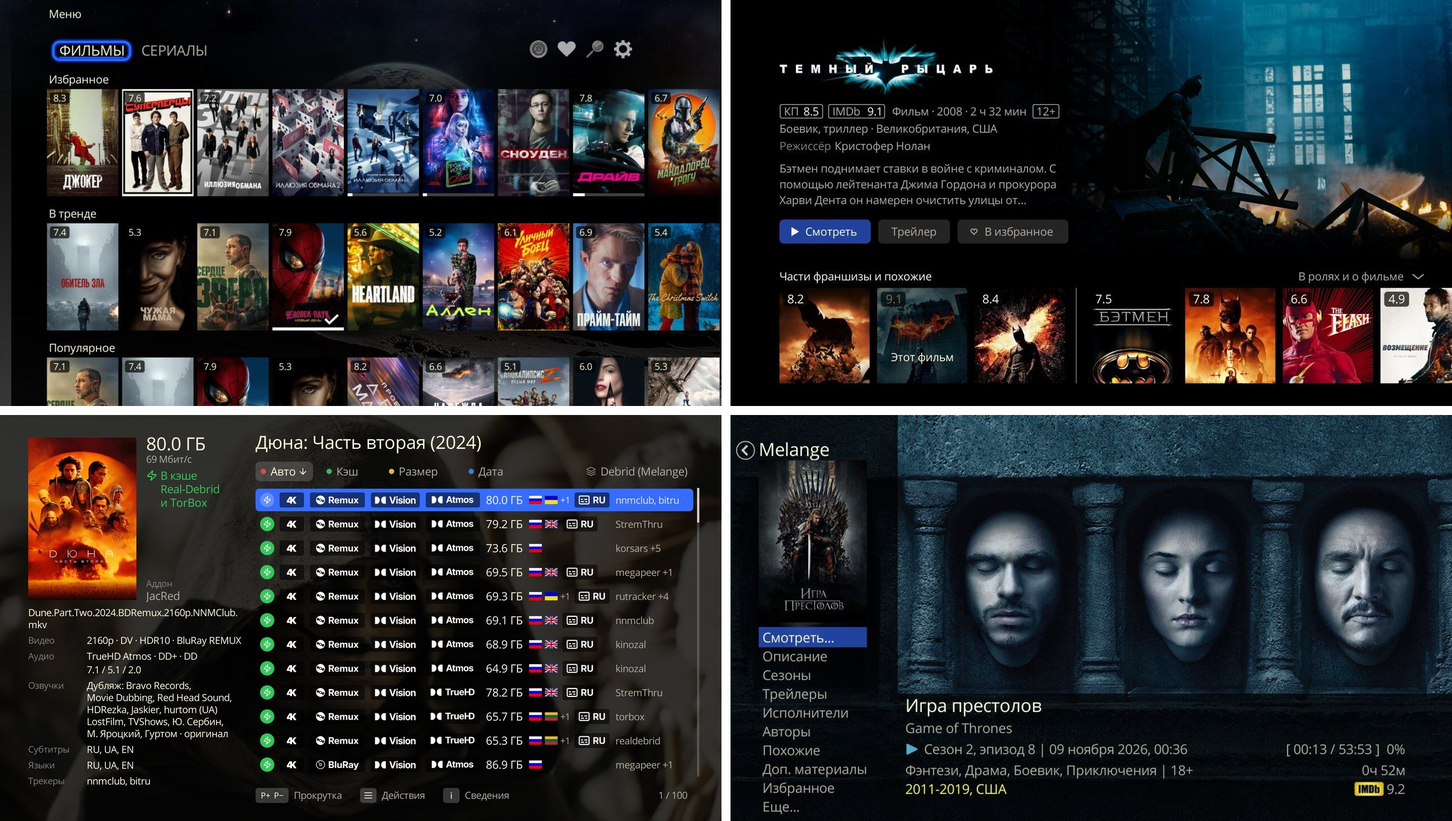
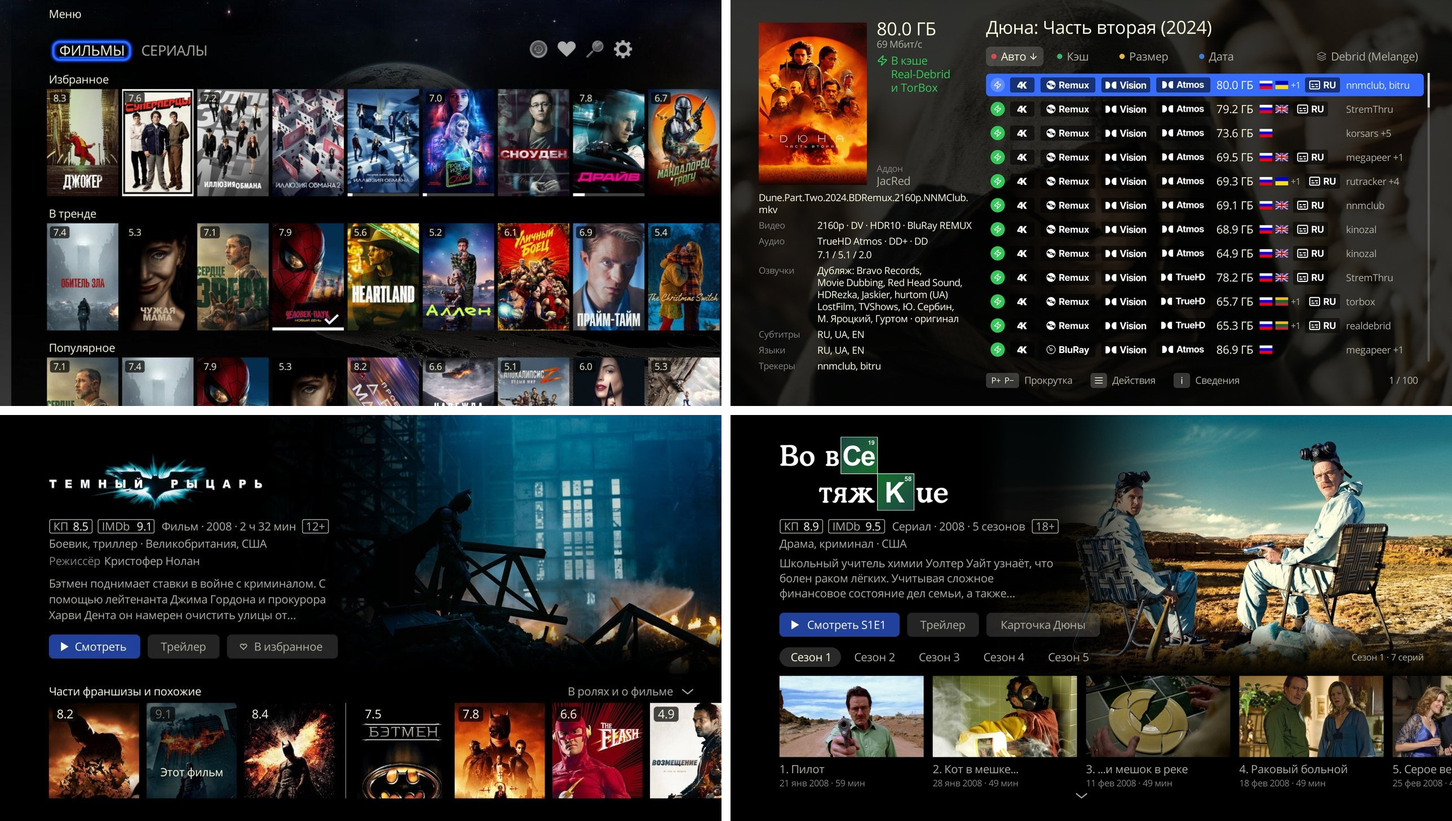
README: short version linking to the guide; overview collage with the own series card

diff --git a/README.md b/README.md
@@ -2,118 +2,27 @@
 
 **Русский** | [English](README.en.md)
 
-Melange превращает Дюну в онлайн-кинотеатр. Подборки фильмов и сериалов, как в стриминговом сервисе: тренды, новинки на цифре, топ Кинопоиска, жанры — и поиск. Выбрали фильм — Melange найдёт раздачи, покажет качество и озвучки, и фильм пойдёт во встроенном плеере Дюны. Сериалы — серия за серией, остановились — продолжите с того же места. Melange встраивается и в каталог «Фильмы» самой Дюны: в карточке фильма или сериала появляется пункт «Melange» в меню «Смотреть…».
+Melange превращает Дюну в онлайн-кинотеатр: каталог фильмов и сериалов с подборками и поиском. Выберите фильм, и Melange найдёт раздачи, покажет качество и озвучки и включит фильм в плеере Дюны. Если остановились, продолжите с того же места. Фильм можно выбрать и в каталоге «Фильмы» самой Дюны: в карточке, в меню «Смотреть…», есть пункт «Melange».
 
-Раздачи ищет AIOStreams — сервис, который опрашивает поисковики по трекерам (JacRed — русские трекеры, Torrentio и другие) и отдаёт общий список; что искать, задаёт конфиг AIOStreams. Смотреть можно через Debrid — платный сервис, который качает торренты у себя и отдаёт как обычное видео, — или бесплатно через TorrServer на Дюне (приложение TorrServe).
+<img src="screenshots/overview-collage.jpg" alt="Четыре экрана Melange: каталог с рядами подборок; список раздач с качеством, звуком и озвучками; своя карточка фильма; своя карточка сериала с сезонами и сериями" width="100%">
 
-Что умеет:
-- свой каталог фильмов и сериалов: ряды подборок (тренды, новинки, российское, жанры, стриминги и другие — какие показывать, выбираете сами) и поиск;
-- список до 100 раздач с подробностями: разрешение, источник, HDR / Dolby Vision, звук, размер, языки, озвучки, есть ли раздача в кэше Debrid; сортировка цветными кнопками пульта;
-- история Дюны: свой ряд «Продолжить» и значки просмотра на постерах, процент на кнопке «Melange [NN%]», возврат с того же места;
-- своё «Избранное», отдельно от «Избранного» Дюны;
-- сериалы: серии сезона подряд в плеере на той же раздаче, листание серий прямо в списке клавишами ← / →;
-- Debrid (Real-Debrid или TorBox) или, без подписки, торренты через TorrServer;
-- озвучки студий — по названию раздачи и её дорожкам, а также дорожки и озвучки из JacRed;
-- настройка с телефона по QR-коду, там же — «Скачать лог».
+Всё по шагам, со скриншотами, есть в [руководстве](docs/README.md) (оно же [на Telegraph](https://telegra.ph/Melange-dlya-Dune-HD-11-04)).
 
-<img src="screenshots/catalog.jpg" alt="Каталог Melange: вкладки «Фильмы» и «Сериалы», ряды «Продолжить», «Избранное», «В тренде»" width="100%">
+## Требования
 
-<img src="screenshots/film-list.jpg" alt="Слева — список раздач с Debrid: молния у раздач в кэше, подробности выбранной раздачи" width="49%"> <img src="screenshots/film-list-p2p.jpg" alt="Справа — тот же фильм в режиме «Торренты»: в первой колонке число сидов, слева «P2P · 407 сидов»" width="49%">
+- Dune HD на Android, прошивка r22 или новее, рекомендуется r24 или r25. На Дюнах на Sigma / Linux Melange не работает, на моделях с 1 ГБ памяти работа не обещается ([Известные ограничения](docs/limitations.md#устройства-и-прошивки)).
+- Как смотреть, на выбор:
+    - **Торренты через TorrServer** — бесплатно, нужно приложение TorrServe на Дюне ([Торренты и TorrServer](docs/torrserver.md)).
+    - **Debrid** (Real-Debrid или TorBox) — платная подписка, фильмы включаются сразу ([Debrid](docs/debrid.md)).
 
-## Что нужно
+## Установка и быстрый старт
 
-- **Dune HD на Android с прошивкой r22 или новее**, рекомендуется r24 или r25.
-- **Не работает** на Дюнах на Sigma / Linux (Solo 4K, Duo 4K, Base 3D, TV-303D и старше): у них нет каталога «Фильмы» с пунктами «Смотреть…» и Android-приложений. На моделях с 1 ГБ памяти (SmartBox 4K, SmartBox 4K Plus, Traveler, Neo 4K, 4K Neo, Neo 4K T2) работа не обещается.
-- **Телефон в той же домашней сети**, что и Дюна, — для страницы настроек.
-- **Источник раздач** — один из трёх вариантов:
-
-| | Debrid | Торренты | Свой конфиг AIOStreams |
-|---|---|---|---|
-| Кому | нужен быстрый старт и много раздач | попробовать без подписки | уже настроили AIOStreams под себя |
-| Что нужно | подписка Real-Debrid или TorBox и её ключ | приложение TorrServe на Дюне | ссылка на свой конфиг |
-| Цена | платная подписка | бесплатно | как у вашего конфига |
-| Старт видео | раздачи из кэша — сразу | дольше, зависит от сидов | как у вашего конфига |
-| Конфиг AIOStreams | создаёт Melange | создаёт Melange | ваш, Melange его только читает |
-| Где ищутся раздачи | JacRed, Torrentio, MediaFusion, Comet, StremThru Torz | по умолчанию только JacRed (русские трекеры); шаблон «Везде» добавляет Torrentio, TorrentsDB, Comet, StremThru Torz | как настроено у вас |
-
-Свой конфиг без Debrid (раздачи P2P) тоже играет через TorrServer. Подробнее о вариантах и о том, что Melange делает с конфигом, — [Источники раздач](docs/aiostreams.md).
-
-JacRed настраивать не нужно: по умолчанию стоит `jacred.kompotik.com` — JacRed Melange.
-
-## Установка
-
-1. Скачайте последний релиз со страницы https://github.com/a1d4r/dune-hd-melange/releases — файл `dune_plugin_melange_<версия>.zip` в разделе Assets. Скопируйте его на флешку или во внутреннюю память Дюны.
-2. На Дюне откройте **«Источники»**, найдите zip и нажмите ENTER.
-3. Примерно через полминуты в меню «Смотреть…» карточек появится пункт «Melange», перезагрузка не нужна. Если карточка была открыта во время установки — выйдите из неё и откройте снова.
-
-**Обновление.** Дюна сама проверяет новую версию Melange на GitHub Pages — после перезагрузки и при входе в «Настройки» → «Приложения» → «Melange» — и предлагает её поставить. Если обновление не пришло, поставьте новый zip поверх старого тем же способом. Настройки и ссылка на страницу настроек сохраняются.
-
-**Удаление** — в списке плагинов Дюны. Вместе с плагином стираются его настройки; чтобы их не потерять, сначала сохраните [резервную копию](docs/backup.md).
-
-## Быстрый старт
-
-1. Если будете смотреть без Debrid — установите на Дюну приложение TorrServe (TorrServer MatriX) и включите в нём запуск при включении Дюны.
-2. Откройте **«Приложения» → «Melange»**. Пока ничего не настроено, откроется экран настроек Melange.
-3. Только торренты и нет телефона под рукой — нажмите **«Быстрая настройка: торренты»**: Melange сам создаст конфиг и откроет каталог. Переходите к шагу 6.
-4. Иначе нажмите **«Настроить с телефона»** и отсканируйте QR-код — откроется страница настроек.
-5. На странице выберите, **откуда брать фильмы** (Debrid, «Торренты» или свой конфиг), введите ключ Debrid или ссылку на конфиг и нажмите **«Сохранить и создать конфиг»** (у своего конфига — «Сохранить»). Окно с QR на телевизоре закроется само.
-6. Откройте фильм в каталоге «Фильмы» Дюны → **«Смотреть…»** → **«Melange»**.
-7. Выберите раздачу и нажмите ENTER.
-
-Тот же путь по шагам, со скриншотами, — [Быстрый старт](docs/start.md).
-
-## Как смотреть
-
-- **Выбрать фильм:** в [каталоге Melange](docs/watch.md#фильм) («Приложения» → «Melange»: ряды подборок и поиск) или в каталоге «Фильмы» Дюны. В карточке — «Смотреть…» → «Melange». У сериала сначала выберите серию через «Сезоны».
-- **Своя карточка:** ENTER на постере каталога Melange открывает [карточку](docs/appearance.md) с рейтингами, трейлером, сезонами и сериями, похожими фильмами и актёрами.
-- **В списке раздач:** вверх / вниз — по раздачам, P+ / P− — по страницам, ENTER — смотреть, INFO — сведения о раздаче, ← / → — соседняя серия. Цветные кнопки меняют порядок: Авто, Сиды (с Debrid — Кэш), Размер, Дата.
-- **Статус раздачи** слева: «В кэше …» — начнёт играть сразу, «Нужно скачать» — в кэше Debrid её нет, «P2P» — играет через TorrServer.
-- **POP UP** — меню действий: обновить список, выбрать серию, смотреть через TorrServer, открыть в другом приложении, скачать на свой сервер, настройки.
-- **Продолжить просмотр:** начатый фильм или серия появляются в ряду «Продолжить просмотр» Дюны и открываются на той же раздаче с того же места.
-
-Всё о списке, сериалах, TorrServer и истории — [Просмотр](docs/watch.md).
+Как поставить и настроить Melange — в [Быстром старте](docs/start.md) (он же [на Telegraph](https://telegra.ph/Bystryj-start-11-15)). Zip лежит в [релизах](https://github.com/a1d4r/dune-hd-melange/releases/latest).
 
 ## Если что-то не так
 
-- **«Нет конфига AIOStreams — откройте настройки Melange»** — конфиг не создался или выбран другой сервер. В окне нажмите «Быстрая настройка: торренты» (только торренты) или откройте страницу настроек и нажмите «Сохранить и создать конфиг».
-- **«AIOStreams не нашёл потоков»** — частая причина в конфиге Melange: JacRed не ответил серверу AIOStreams. Выберите другой JacRed (кнопка «Сравнить скорость» в разделе «JacRed») или другой сервер AIOStreams.
-- **«AIOStreams не отвечает»** и другие ошибки сервера — попробуйте позже.
-- **Не открывается через TorrServer** — установите и запустите на Дюне TorrServe; связь проверит «Проверить» в разделе «TorrServer» страницы настроек.
-- Не помогло — скачайте лог на странице настроек («Скачать лог») и заведите Issue: https://github.com/a1d4r/dune-hd-melange/issues
-
-Все сообщения и что с ними делать — [Решение проблем и лог](docs/troubleshooting.md).
-
-## Документация
-
-[Оглавление руководства](docs/README.md):
-
-- [Быстрый старт](docs/start.md)
-- [Просмотр](docs/watch.md)
-- [Свои ряды каталога](docs/catalog-rows.md)
-- [Страница настроек с телефона](docs/phone-page.md)
-- [Debrid](docs/debrid.md)
-- [Торренты и TorrServer](docs/torrserver.md)
-- [JacRed](docs/jacred.md)
-- [Источники](docs/profiles.md)
-- [Свой торрент-клиент](docs/download-server.md)
-- [Внешний вид](docs/appearance.md)
-- [Melange во вкладке «ТВ»](docs/tv-tab.md)
-- [Дополнительно](docs/advanced-options.md)
-- [Резервная копия](docs/backup.md)
-- [AIOStreams и свой конфиг](docs/aiostreams.md)
-- [Решение проблем](docs/troubleshooting.md)
-- [Известные ограничения](docs/limitations.md)
-
-## Источники данных
-
-Фильмы, сериалы и постеры — из [TMDB](https://www.themoviedb.org/), ряды по стриминговым сервисам — по данным [JustWatch](https://www.justwatch.com/). Спасибо авторам подборок:
-- параметры большинства рядов (жанры, темы, студии, десятилетия, стриминги, страны, длительность) — из шаблона AIOMetadata [luckynumb3rs/stremio-perfect-setup](https://github.com/luckynumb3rs/stremio-perfect-setup); российские ряды и новинки собраны для Melange;
-- «Топ Кинопоиска» — неофициальное зеркало топ-250 Кинопоиска, публичный список [lotist на Letterboxd](https://letterboxd.com/lotist/list/250/); это не рейтинг самого Кинопоиска, в ряду первые 200 фильмов;
-- «Новинки в качестве» и «Новинки в 4K» — по открытому списку [KinoTrend](https://kino-trend.ru/), «Свежие серии с переводом» — по [Киноу](https://kinou.ru/);
-- «Сезон целиком с переводом» — по открытому списку СериалТренда: сериалы, у которых уже есть раздача целого сезона с русской озвучкой; фильм или сериал без IMDb-id в ряды группы «Новинки с переводом» не попадает;
-- ряды аниме «на AniList» — из [AniList](https://anilist.co/);
-- сервер каталога — [AIOMetadata](https://github.com/cedya77/aiometadata).
+Сообщения на экране и что с ними делать — в главе [Решение проблем](docs/troubleshooting.md). Если не помогло, скачайте лог на странице настроек и заведите [Issue](https://github.com/a1d4r/dune-hd-melange/issues).
 
 ## Лицензия
 
-MIT — см. файл `LICENSE` в репозитории. Значки качества — из [github.com/kingsizew/badges](https://github.com/kingsizew/badges).
+MIT, см. файл `LICENSE`.

diff --git a/README.en.md b/README.en.md
@@ -2,118 +2,27 @@
 
 # Melange for Dune HD
 
-Melange turns your Dune into an online cinema. Movie and series collections like on a streaming service: trending, new digital releases, Kinopoisk top, genres, plus search. Pick a movie, and Melange finds releases, shows their quality and voice-overs, and plays it in the Dune's built-in player. Series play episode after episode; stop, and later you pick up where you left off. Melange also plugs into the Dune's own **Movies** catalog: a movie or series card gets a **Melange** item in its **Play...** menu.
+Melange turns your Dune into an online cinema: a movie and series catalog with curated rows and search. Pick a movie, and Melange finds releases, shows their quality and dubs, and plays the movie in the Dune player. Stop anytime and resume from the same spot. You can also pick a movie in the Dune's own **Movies** catalog: its card has a **Melange** item in the **Play...** menu.
 
-Releases are found by AIOStreams, a service that queries torrent search engines (JacRed for Russian trackers, Torrentio and others) and returns one combined list; what to search is set by the AIOStreams config. You can watch through Debrid, a paid service that downloads torrents on its side and serves them as ordinary video, or for free through TorrServer on the Dune (the TorrServe app).
+<img src="screenshots/overview-collage.jpg" alt="Four Melange screens: the catalog with rows; the release list with quality, audio and dubs; Melange's own movie card; Melange's own series card with seasons and episodes" width="100%">
 
-What it does:
-- its own movie and series catalog: rows of collections (trending, new releases, Russian, genres, streaming services and more; you choose which to show) and search;
-- a list of up to 100 releases with details: resolution, source, HDR / Dolby Vision, audio, size, languages, voice-overs, whether the release is cached in Debrid; sorting with the colored remote buttons;
-- Dune history: Melange's own Continue Watching row and watch marks on posters, the percentage on the **Melange [NN%]** button, resuming from the same spot;
-- your own Favorites, separate from Dune Favorites;
-- series: the episodes of a season play in a row on the same release, and you flip episodes right in the list with ← / →;
-- Debrid (Real-Debrid or TorBox) or, without a subscription, torrents via TorrServer;
-- studio voice-overs (dubbing studios), from the release name and its tracks, plus tracks and voice-overs from JacRed;
-- setup from a phone via a QR code, with **Download the log** on the same page.
-
-<img src="screenshots/catalog.jpg" alt="Melange catalog: Movies and Series tabs, Continue Watching, Favorites and other rows" width="100%">
-
-<img src="screenshots/film-list.jpg" alt="Left: the release list with Debrid, a lightning bolt on cached releases, details of the selected release" width="49%"> <img src="screenshots/film-list-p2p.jpg" alt="Right: the same movie in Torrents mode, seeder counts in the first column, P2P with 407 seeders on the left" width="49%">
+The [guide](docs/README.en.md) walks through every step with screenshots.
 
 ## Requirements
 
-- **A Dune HD on Android with firmware r22 or newer**, r24 or r25 recommended.
-- **Does not work** on Sigma / Linux Dunes (Solo 4K, Duo 4K, Base 3D, TV-303D and older): they have no **Movies** catalog with **Play...** items and no Android apps. On models with 1 GB of memory (SmartBox 4K, SmartBox 4K Plus, Traveler, Neo 4K, 4K Neo, Neo 4K T2) it is not guaranteed to work.
-- **A phone on the same home network** as the Dune, for the settings page.
-- **A source of releases**, one of three options:
+- A Dune HD on Android with firmware r22 or newer, r24 or r25 recommended. Melange does not work on Sigma / Linux Dunes and is not guaranteed to work on models with 1 GB of memory ([Known limitations](docs/limitations.en.md#devices-and-firmware)).
+- One way to watch:
+    - **Torrents via TorrServer**: free, needs the TorrServe app on the Dune ([Torrents and TorrServer](docs/torrserver.en.md)).
+    - **Debrid** (Real-Debrid or TorBox): a paid subscription, movies start right away ([Debrid](docs/debrid.en.md)).
 
-| | Debrid | Torrents | Own AIOStreams config |
-|---|---|---|---|
-| For whom | you want a quick start and lots of releases | you want to try it without a subscription | you have already tuned AIOStreams for yourself |
-| What you need | a Real-Debrid or TorBox subscription and its key | the TorrServe app on the Dune | a link to your config |
-| Price | paid subscription | free | as with your config |
-| Video start | cached releases start at once | slower, depends on seeders | as with your config |
-| AIOStreams config | created by Melange | created by Melange | yours, Melange only reads it |
-| Where releases are searched | JacRed, Torrentio, MediaFusion, Comet, StremThru Torz | by default only JacRed (Russian trackers); the **Everywhere** template adds Torrentio, TorrentsDB, Comet, StremThru Torz | as you set it up |
+## Installation and quick start
 
-An own config without Debrid (P2P releases) also plays via TorrServer. More on the options and on what Melange does with the config: [Release sources](docs/aiostreams.en.md).
-
-JacRed needs no setup: the default is `jacred.kompotik.com`, Melange's JacRed.
-
-## Installation
-
-1. Download the latest release from https://github.com/a1d4r/dune-hd-melange/releases, the `dune_plugin_melange_<version>.zip` file under Assets. Copy it to a USB stick or to the Dune's internal storage.
-2. On the Dune, open **Sources**, find the zip and press ENTER.
-3. In about half a minute, a **Melange** item appears in the **Play...** menu of cards, no reboot needed. If a card was open during the install, leave it and open it again.
-
-**Updates.** The Dune checks for a new Melange version on GitHub Pages by itself, after a reboot and when you enter **Setup → Apps → Melange**, and offers to install it. If no update arrives, install the new zip over the old one the same way. Settings and the settings page link are kept.
-
-**Uninstall** from the Dune's plugin list. The plugin's settings are erased with it; to keep them, save a [backup](docs/backup.en.md) first.
-
-## Quick start
-
-1. If you will watch without Debrid, install the TorrServe app (TorrServer MatriX) on the Dune and set it to start when the Dune boots.
-2. Open **Apps → Melange**. While nothing is set up, the Melange settings screen opens.
-3. Torrents only and no phone at hand: press **Quick setup: torrents**. Melange creates the config itself and opens the catalog. Go to step 6.
-4. Otherwise press **Set up from a phone** and scan the QR code: the settings page opens.
-5. On the page, choose **where to get films** (Debrid, **Torrents** or your own config), enter the Debrid key or the config link and press **Save and create the config** (**Save** for your own config). The QR window on the TV closes by itself.
-6. Open a movie in the Dune **Movies** catalog → **Play...** → **Melange**.
-7. Pick a release and press ENTER.
-
-The same path step by step, with screenshots: [Quick start](docs/start.en.md).
-
-## How to watch
-
-- **Pick a movie** in the [Melange catalog](docs/watch.en.md) (**Apps → Melange**: rows of collections and search) or in the Dune **Movies** catalog. On the card: **Play...** → **Melange**. For a series, first choose an episode via **Seasons**.
-- **Own card:** ENTER on a poster in the Melange catalog opens [a card](docs/appearance.en.md) with ratings, a trailer, seasons and episodes, similar titles and the cast.
-- **In the release list:** up / down moves through releases, P+ / P− through pages, ENTER plays, INFO shows release details, ← / → goes to the neighboring episode. The colored buttons change the order: Auto, Seeders (Cached with Debrid), Size, Date.
-- **Release status** on the left: **Cached in …** starts playing at once, **Not cached** means it is not in the Debrid cache, **P2P** plays via TorrServer.
-- **POP UP** opens the actions menu: refresh the list, choose an episode, watch via TorrServer, open in another app, download to your server, settings.
-- **Continue watching:** a started movie or episode shows up in the Dune's **Continue Watching** row and opens on the same release from the same spot.
-
-Everything about the list, series, TorrServer and history: [Watching](docs/watch.en.md).
+[Quick start](docs/start.en.md) shows how to install and set up Melange. The zip is in [releases](https://github.com/a1d4r/dune-hd-melange/releases/latest).
 
 ## Troubleshooting
 
-- **"No AIOStreams config — open Melange settings"**: the config was not created or another server is selected. In the window, press **Quick setup: torrents** (torrents only) or open the settings page and press **Save and create the config**.
-- **"AIOStreams found no streams"**: with the Melange config, a common cause is that JacRed did not answer the AIOStreams server. Choose another JacRed (the **Compare speed** button in the **JacRed** section) or another AIOStreams server.
-- **"AIOStreams is not responding"** and other server errors: try again later.
-- **Does not open via TorrServer**: install and start TorrServe on the Dune; **Check** in the **TorrServer** section of the settings page tests the connection.
-- Still stuck: download the log on the settings page (**Download the log**) and open an issue: https://github.com/a1d4r/dune-hd-melange/issues
-
-All messages and what to do about them: [Troubleshooting and the log](docs/troubleshooting.en.md).
-
-## Documentation
-
-[Guide contents](docs/README.en.md):
-
-- [Quick start](docs/start.en.md)
-- [Watching](docs/watch.en.md)
-- [Your own catalog rows](docs/catalog-rows.en.md)
-- [Settings page on a phone](docs/phone-page.en.md)
-- [Debrid](docs/debrid.en.md)
-- [Torrents and TorrServer](docs/torrserver.en.md)
-- [JacRed](docs/jacred.en.md)
-- [Sources](docs/profiles.en.md)
-- [Your own torrent client](docs/download-server.en.md)
-- [Appearance](docs/appearance.en.md)
-- [Melange in the TV tab](docs/tv-tab.en.md)
-- [Advanced](docs/advanced-options.en.md)
-- [Backup](docs/backup.en.md)
-- [AIOStreams and your own config](docs/aiostreams.en.md)
-- [Troubleshooting](docs/troubleshooting.en.md)
-- [Known limitations](docs/limitations.en.md)
-
-## Data sources
-
-Movies, series and posters come from [TMDB](https://www.themoviedb.org/), streaming service rows from [JustWatch](https://www.justwatch.com/) data. Thanks to the authors of the collections:
-- the parameters of most rows (genres, themes, studios, decades, streaming, countries, runtime) are from the AIOMetadata template [luckynumb3rs/stremio-perfect-setup](https://github.com/luckynumb3rs/stremio-perfect-setup); the Russian rows and new releases were put together for Melange;
-- Kinopoisk top is an unofficial mirror of the Kinopoisk Top 250, the public list by [lotist on Letterboxd](https://letterboxd.com/lotist/list/250/); it is not Kinopoisk's own rating, and the row has the first 200 movies;
-- "Новинки в качестве" and "Новинки в 4K" follow the open list of [KinoTrend](https://kino-trend.ru/), "Свежие серии с переводом" follows [Kinou](https://kinou.ru/);
-- "Сезон целиком с переводом" follows the open list of SerialTrend: series that already have a release of a whole season with Russian voice-over; a movie or series without an IMDb ID does not get into the rows of the "Fresh releases" group;
-- the "on AniList" anime rows are from [AniList](https://anilist.co/);
-- the catalog server is [AIOMetadata](https://github.com/cedya77/aiometadata).
+[Troubleshooting](docs/troubleshooting.en.md) lists on-screen messages and what to do about them. If that does not help, download the log on the settings page and open an [issue](https://github.com/a1d4r/dune-hd-melange/issues).
 
 ## License
 
-MIT, see the `LICENSE` file in the repository. Quality badges are from [github.com/kingsizew/badges](https://github.com/kingsizew/badges).
+MIT, see the `LICENSE` file.

diff --git a/docs/README.md b/docs/README.md
@@ -8,7 +8,7 @@ Melange превращает Дюну в онлайн-кинотеатр: кат
 
 Впервые с Melange? Начните с «Быстрого старта».
 
-<img src="../screenshots/overview-collage.jpg" alt="Четыре экрана Melange: каталог с рядами подборок; своя карточка фильма; список раздач с качеством, звуком и озвучками; карточка «Фильмов» Дюны с пунктом «Смотреть…»" width="100%">
+<img src="../screenshots/overview-collage.jpg" alt="Четыре экрана Melange: каталог с рядами подборок; список раздач с качеством, звуком и озвучками; своя карточка фильма; своя карточка сериала с сезонами и сериями" width="100%">
 
 **Начать**
 

diff --git a/docs/README.en.md b/docs/README.en.md
@@ -8,7 +8,7 @@ Watch for free through TorrServer or with a paid Debrid service.
 
 New here? Start with Quick start.
 
-<img src="../screenshots/overview-collage.jpg" alt="Four Melange screens: the catalog with rows; Melange's own movie card; the release list with quality, audio and dubs; a Dune «Фильмы» (Movies) card with «Смотреть…» (Play...)" width="100%">
+<img src="../screenshots/overview-collage.jpg" alt="Four Melange screens: the catalog with rows; the release list with quality, audio and dubs; Melange's own movie card; Melange's own series card with seasons and episodes" width="100%">
 
 **Getting started**
 
